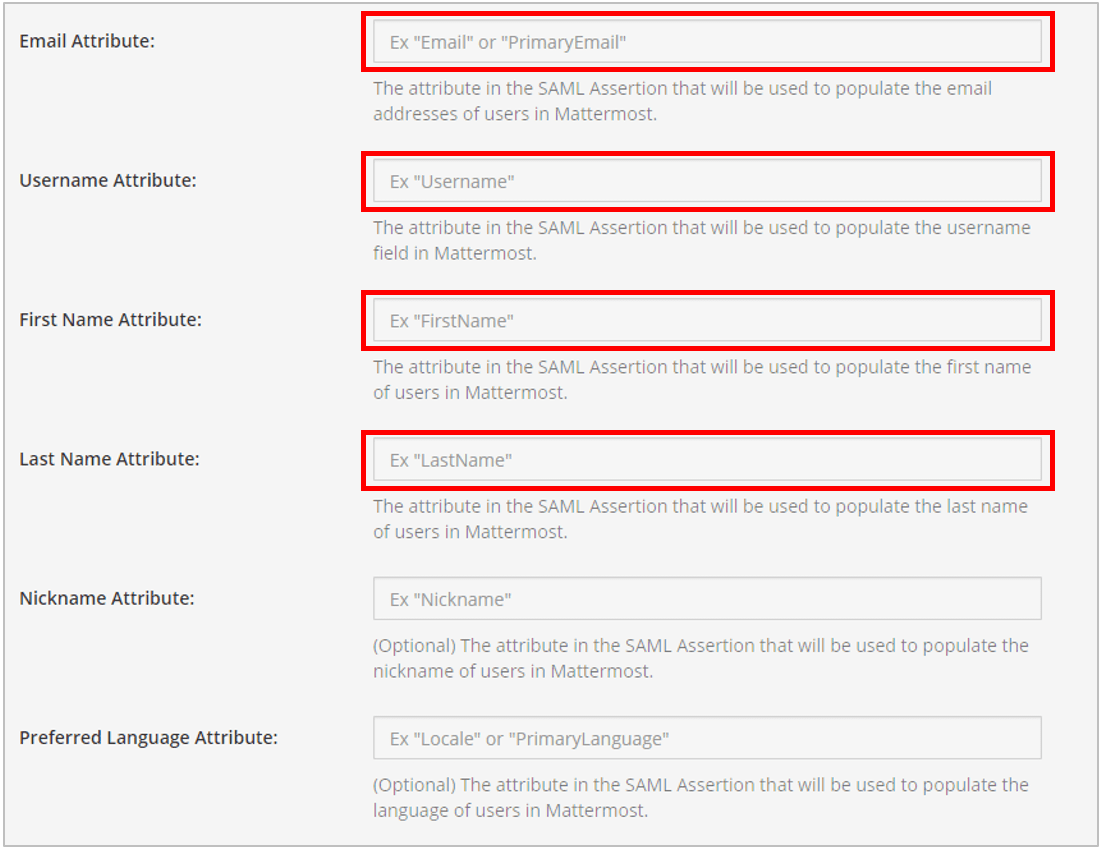
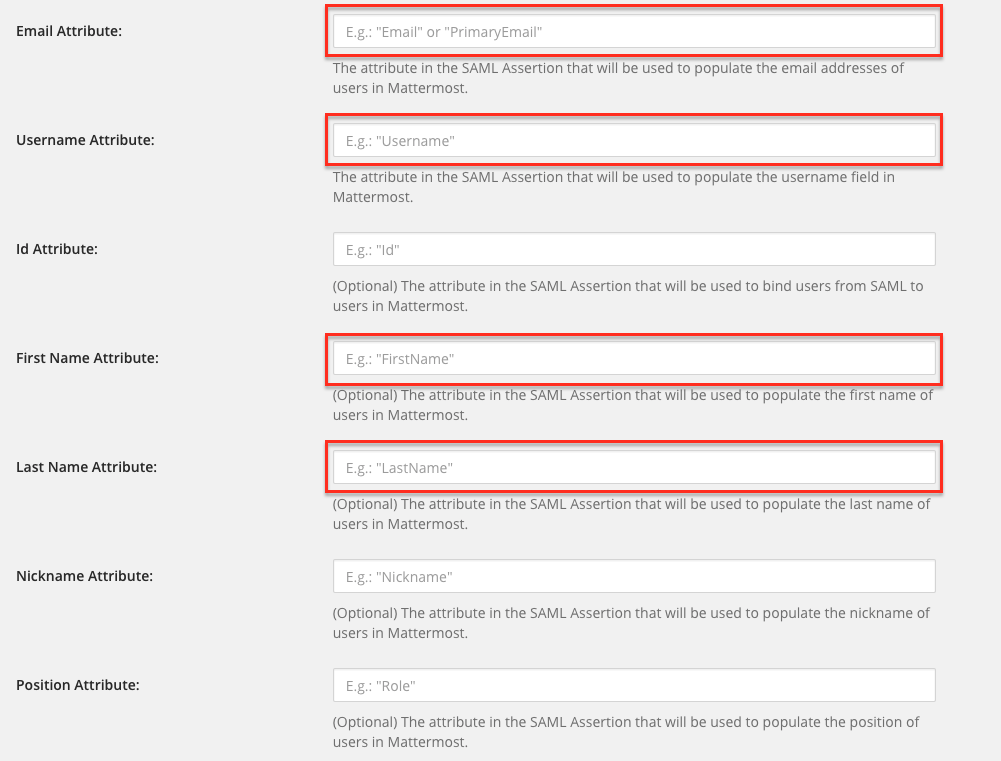
Added more clear instructions for setting ID attribute in SAML

diff --git a/source/deployment/sso-saml-faq.rst b/source/deployment/sso-saml-faq.rst
@@ -4,7 +4,14 @@ Frequently Asked Questions
 How to Bind Authentication to Id Attribute instead of Email
 ~~~~~~~~~~~~~~~~~~~~~~~~~~~~~~~~~~~~~~~~~~~~~~~~~~~~~~~~~~~~~
 
-Alternatively, you can use an Id Attribute instead of email to bind the user.  We recommend choosing an ID that is unique and will not change over time.  
+Alternatively, you can use an Id Attribute instead of email to bind the user.  We recommend choosing an ID that is unique and will not change over time. To do this:
+
+1. Create an LDAP mapping where the LDAP attribute is set to ``IdAttribute`` and the ``Outgoing Claim Type`` is set to a unique identifier, such as a GUID. Ask your ADFS administrator for a good field to use for this unique identifier.
+2. Enter ``IdAttribute`` into the **ID Attribute** field in the Mattermost SAML settings
+   
+   .. image:: ../../source/images/adfs_27_id_attribute_field.PNG
+3. Click "Save"
+
 
 Configuring with an Id Attribute allows you to reuse an email address for a new user without the old user's information being exposed. For instance, if a user with an email address joe.smith@mattermost.com was once an employee, a new employee named Joe Smith can use the same email. This configuration is also useful when a user's name changes and their email needs to be updated. 
 

diff --git a/source/deployment/sso-saml-adfs.rst b/source/deployment/sso-saml-adfs.rst
@@ -91,6 +91,8 @@ Create Claim Rules
 
 For Mattermost 3.4 and later, the *FirstName* and *LastName* attributes are optional.
 
+.. note:: It is recommended that you configure a claim rule that associates a unique, unchanging identifier with the **Outgoing Claim Type** of ``IdAttribute``. Please check with your ADFS admin to determine which LDAP Attribute you should use. `More information is available here. <#how-to-bind-authentication-to-id-attribute-instead-of-email>`__
+
 Then, click **Finish** to add the rule.
 
 Note that the entries in the **Outgoing Claim Type** column can be chosen to be something else. They can contain dashes but no spaces. Note that they will be used to map the corresponding fields in Mattermost later.
@@ -109,6 +111,7 @@ Note that the entries in the **Outgoing Claim Type** column can be chosen to be 
   - Select *E-Mail Address* for the **Outgoing claim type**
 
 Moreover, select the **Pass through all claim values** option. Then click **Finish**.
+
 
 	.. image:: ../../source/images/adfs_18_configure_incoming_claim.PNG
 

diff --git a/source/deployment/sso-saml-adfs.md b/source/deployment/sso-saml-adfs.md
@@ -96,6 +96,8 @@ However, if you would like to set up encryption for your SAML connection, click 
 
 For Mattermost 3.4 and later, the `FirstName` and `LastName` attributes are optional.
 
+**Note:** It is recommended that you also set up an attribute that is associated with a unique, non-changing identifier to prevent username or email collisions. [Click here for more information](#how-to-bind-authentication-to-id-attribute-instead-of-email)
+
 Then, click **Finish** to add the rule.
 
 Note that the entries in the **Outgoing Claim Type** column can be chosen to be something else. They can contain dashes but no spaces. Note that they will be used to map the corresponding fields in Mattermost later.
